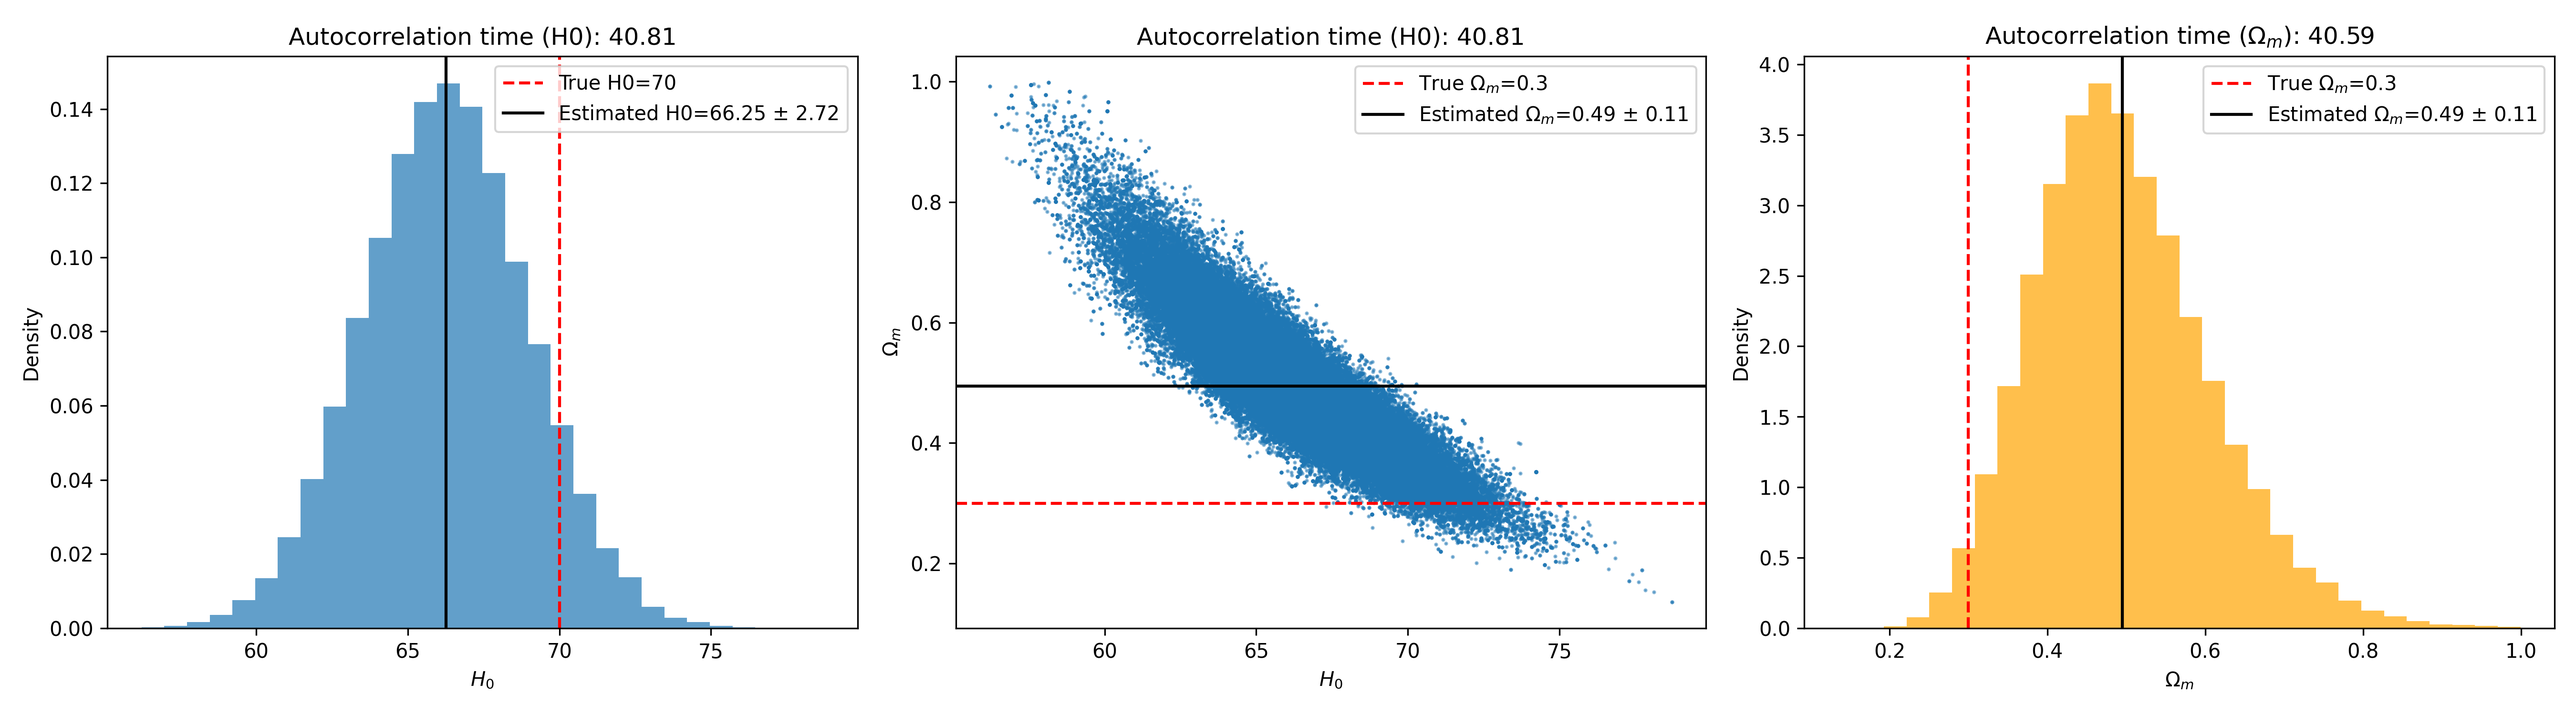
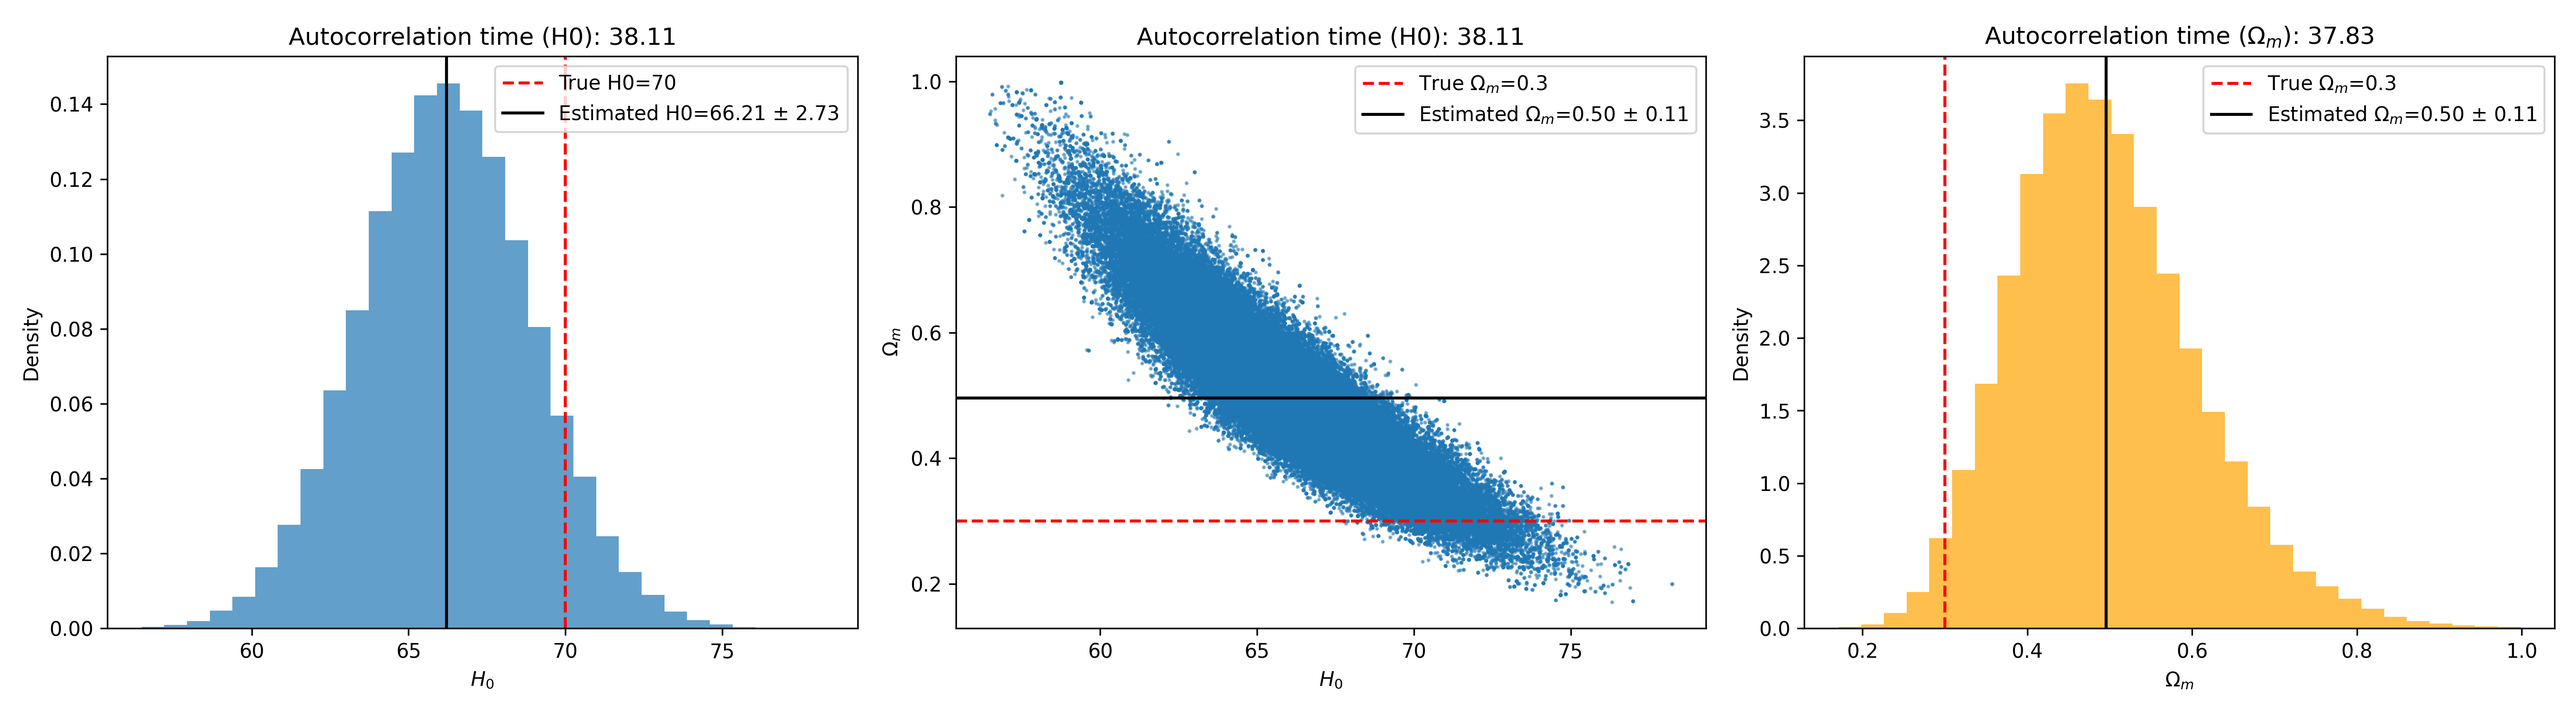
Final MH code

diff --git a/FinalProject/FinalProject_MH.py b/FinalProject/FinalProject_MH.py
@@ -66,9 +66,6 @@ def metropolis_hastings(iterations, init_H0=70, init_Omega_m=0.3, step_size=1.0)
     return np.array(H0_chain), np.array(Omega_m_chain)
 
 def autocorrelation_time(chain, max_lag=None):
-    """
-    Calculate the autocorrelation time using FFT for numerical stability.
-    """
     n = len(chain)
     if max_lag is None:
         max_lag = n // 2
@@ -88,56 +85,92 @@ def autocorrelation_time(chain, max_lag=None):
     tau = 1 + 2 * np.sum(autocorr[:max_lag])
     return tau
 
+def effective_sample_size(chain, max_lag=None):
+    n = len(chain)
+    tau = autocorrelation_time(chain, max_lag)  # Pass only chain and max_lag
+    ess = n / (1 + 2 * tau)
+    return ess
+
 # Run MCMC
-iterations = 249999
+iterations = 299999
 H0_sample, Omega_m_sample = metropolis_hastings(iterations)
 
-print(f"{len(H0_sample)}")
-print(f"{len(Omega_m_sample)}")
+print(f"Final sample size H0: {len(H0_sample)}")
+print(f"Final sample size Omega_m: {len(Omega_m_sample)}")
 
-# Calculate autocorrelation time
-tau = autocorrelation_time(H0_sample[1000:])
-print(f"Autocorrelation time: {tau:.2f}")
+# Discard the first 20% of the chains as burn-in
+burn_in = int(0.2 * len(H0_sample))
+H0_burnt = H0_sample[burn_in:]
+Omega_m_burnt = Omega_m_sample[burn_in:]
 
-# Calculate mean and standard deviation for H0 and Omega_m
-H0_mean = np.mean(H0_sample[1000:])
-H0_std = np.std(H0_sample[1000:])
-Omega_m_mean = np.mean(Omega_m_sample[1000:])
-Omega_m_std = np.std(Omega_m_sample[1000:])
+# Calculate mean and standard deviation for H0 and Omega_m after burn-in
+H0_mean = np.mean(H0_burnt)
+H0_std = np.std(H0_burnt)
+Omega_m_mean = np.mean(Omega_m_burnt)
+Omega_m_std = np.std(Omega_m_burnt)
 
-# Plot results
+# Calculate autocorrelation time and ESS after burn-in
+tau_H0 = autocorrelation_time(H0_burnt)
+tau_Omega_m = autocorrelation_time(Omega_m_burnt)
+
+ess_H0 = effective_sample_size(H0_burnt)
+ess_Omega_m = effective_sample_size(Omega_m_burnt)
+
+# Print results
+print(f"Final sample size after burn-in (H0): {len(H0_burnt)}")
+print(f"Final sample size after burn-in (Omega_m): {len(Omega_m_burnt)}")
+print(f"Autocorrelation time (H0): {tau_H0:.2f}")
+print(f"Autocorrelation time (Omega_m): {tau_Omega_m:.2f}")
+print(f"Effective Sample Size (H0): {ess_H0:.2f}")
+print(f"Effective Sample Size (Omega_m): {ess_Omega_m:.2f}")
+
+# Plot results with burn-in
 plt.figure(figsize=(18, 5))
 
 # Histogram of H0
 plt.subplot(1, 3, 1)
-plt.hist(H0_sample[1000:], bins=30, density=True, alpha=0.7)
+plt.hist(H0_burnt, bins=30, density=True, alpha=0.7, color='blue', label="H0 Samples")
 plt.axvline(true_H0, color='r', linestyle='--', label=f"True H0={true_H0}")
 plt.axvline(H0_mean, color='k', linestyle='-', label=f"Estimated H0={H0_mean:.2f} ± {H0_std:.2f}")
 plt.xlabel("$H_0$")
 plt.ylabel("Density")
 plt.legend()
-plt.title(f"Autocorrelation time: {tau:.2f}")
+plt.title(f"H0 Distribution (Autocorrelation Time: {tau_H0:.2f})")
 
-# Scatter plot of Omega_m vs H0
-plt.subplot(1, 3, 2)
-plt.scatter(H0_sample[1000:], Omega_m_sample[1000:], s=1, alpha=0.5)
-plt.axhline(true_Omega_m, color='r', linestyle='--', label=f"True $\\Omega_m$={true_Omega_m}")
-plt.axhline(Omega_m_mean, color='k', linestyle='-', label=f"Estimated $\\Omega_m$={Omega_m_mean:.2f} ± {Omega_m_std:.2f}")
-plt.xlabel("$H_0$")
-plt.ylabel("$\\Omega_m$")
-plt.legend()
-plt.title(f"Autocorrelation time: {tau:.2f}")
+# Add additional information as text
+plt.text(0.05, 0.95, f"Sample Size: {len(H0_burnt)}\nESS: {ess_H0:.2f}",
+         transform=plt.gca().transAxes, verticalalignment='top', bbox=dict(facecolor='white', alpha=0.8))
 
 # Histogram of Omega_m
 plt.subplot(1, 3, 3)
-plt.hist(Omega_m_sample[1000:], bins=30, density=True, alpha=0.7, color='orange')
+plt.hist(Omega_m_burnt, bins=30, density=True, alpha=0.7, color='orange', label="$\\Omega_m$ Samples")
 plt.axvline(true_Omega_m, color='r', linestyle='--', label=f"True $\\Omega_m$={true_Omega_m}")
 plt.axvline(Omega_m_mean, color='k', linestyle='-', label=f"Estimated $\\Omega_m$={Omega_m_mean:.2f} ± {Omega_m_std:.2f}")
 plt.xlabel("$\\Omega_m$")
 plt.ylabel("Density")
 plt.legend()
-plt.title(f"Autocorrelation time: {tau:.2f}")
+plt.title(f"$\\Omega_m$ Distribution (Autocorrelation Time: {tau_Omega_m:.2f})")
+
+# Add additional information as text
+plt.text(0.05, 0.95, f"Sample Size: {len(Omega_m_burnt)}\nESS: {ess_Omega_m:.2f}",
+         transform=plt.gca().transAxes, verticalalignment='top', bbox=dict(facecolor='white', alpha=0.8))
+
+# Scatter plot of Omega_m vs H0
+plt.subplot(1, 3, 2)
+plt.scatter(H0_burnt, Omega_m_burnt, s=1, alpha=0.5, color='green', label="Samples")
+plt.axhline(true_Omega_m, color='r', linestyle='--', label=f"True $\\Omega_m$={true_Omega_m}")
+plt.axhline(Omega_m_mean, color='k', linestyle='-', label=f"Estimated $\\Omega_m$={Omega_m_mean:.2f} ± {Omega_m_std:.2f}")
+plt.axvline(true_H0, color='r', linestyle='--', label=f"True H0={true_H0}")
+plt.axvline(H0_mean, color='k', linestyle='-', label=f"Estimated H0={H0_mean:.2f} ± {H0_std:.2f}")
+plt.xlabel("$H_0$")
+plt.ylabel("$\\Omega_m$")
+plt.legend()
+plt.title(f"$H_0$ vs $\\Omega_m$ (Autocorrelation Time: {tau_H0:.2f})")
+
+# Add additional information as text
+plt.text(0.05, 0.95, f"Sample Size: {len(H0_burnt)}\nESS (H0): {ess_H0:.2f}\nESS ($\\Omega_m$): {ess_Omega_m:.2f}",
+         transform=plt.gca().transAxes, verticalalignment='top', bbox=dict(facecolor='white', alpha=0.8))
 
 plt.tight_layout()
-plt.savefig("FinalProject/figs/parameter_distribution_MH.png", dpi=300)
+plt.savefig("FinalProject/figs/parameter_distribution_MH_burnin.png", dpi=300)
 #plt.show()

diff --git a/FinalProject/FinalProject_StretchMove.py b/FinalProject/FinalProject_StretchMove.py
@@ -105,9 +105,16 @@ def autocorrelation_time(chain, max_lag=None, truncate_threshold=0.01):
 
     return tau
 
+def effective_sample_size(chain, max_lag=None, truncate_threshold=0.01):
+    n = len(chain)
+    tau = autocorrelation_time(chain, max_lag, truncate_threshold)
+    ess = n / (1 + 2 * tau)
+    return ess
+
+
 # Run MCMC
-iterations = 5000
-n_walkers = 50
+iterations = 10000
+n_walkers = 30
 H0_chains, Omega_m_chains = stretch_move_sampling(iterations, n_walkers)
 
 # Discard burn-in (first 20% of the chain)
@@ -122,17 +129,26 @@ tau_Omega_m = np.mean([autocorrelation_time(Omega_m_chains[:, w]) for w in range
 print(f"Autocorrelation time for H0: {tau_H0}")
 print(f"Autocorrelation time for Omega_m: {tau_Omega_m}")
 
+# Compute ESS for each walker's chain
+ess_H0 = [effective_sample_size(H0_chains[:, w]) for w in range(n_walkers)]
+ess_Omega_m = [effective_sample_size(Omega_m_chains[:, w]) for w in range(n_walkers)]
+avg_ess_H0 = np.mean(ess_H0)
+avg_ess_Omega_m = np.mean(ess_Omega_m)
+print(f"Average ESS for H0: {avg_ess_H0}")
+print(f"Average ESS for Omega_m: {avg_ess_Omega_m}")
+
 # Flatten the chains
 H0_samples = H0_chains.flatten()  # Combine all walkers' chains
 Omega_m_samples = Omega_m_chains.flatten()  # Combine all walkers' chains
-print(f"{len(H0_samples)}")
-print(f"{len(Omega_m_samples)}")
+print(f"Final sample size H0: {len(H0_samples)}")
+print(f"Final sample size Omega_m: {len(Omega_m_samples)}")
 
 # Calculate mean and standard deviation for H0 and Omega_m
 H0_mean = np.mean(H0_samples)
 H0_std = np.std(H0_samples)
 Omega_m_mean = np.mean(Omega_m_samples)
 Omega_m_std = np.std(Omega_m_samples)
+
 
 # Plot results
 plt.figure(figsize=(18, 5))

diff --git a/FinalProject/FinalProject_using_emcee.py b/FinalProject/FinalProject_using_emcee.py
@@ -37,7 +37,7 @@ def log_likelihood(theta):
     chi2 = np.sum((mu_data - mu_model) ** 2 / 0.2**2)
     return -0.5 * chi2
 
-nwalkers = 50
+nwalkers = 30
 ndim = 2
 
 sampler = emcee.EnsembleSampler(nwalkers, ndim, log_likelihood)
@@ -48,7 +48,7 @@ initial_Omega_m = np.random.normal(0.3, 0.1, nwalkers)  # Centered around 0.3 wi
 initial_positions = np.vstack((initial_H0, initial_Omega_m)).T
 
 # Run the MCMC sampler
-nsteps = 5000  # Number of steps to run the sampler
+nsteps = 10000  # Number of steps to run the sampler
 sampler.run_mcmc(initial_positions, nsteps, progress=True)
 
 # Calculate the autocorrelation time
